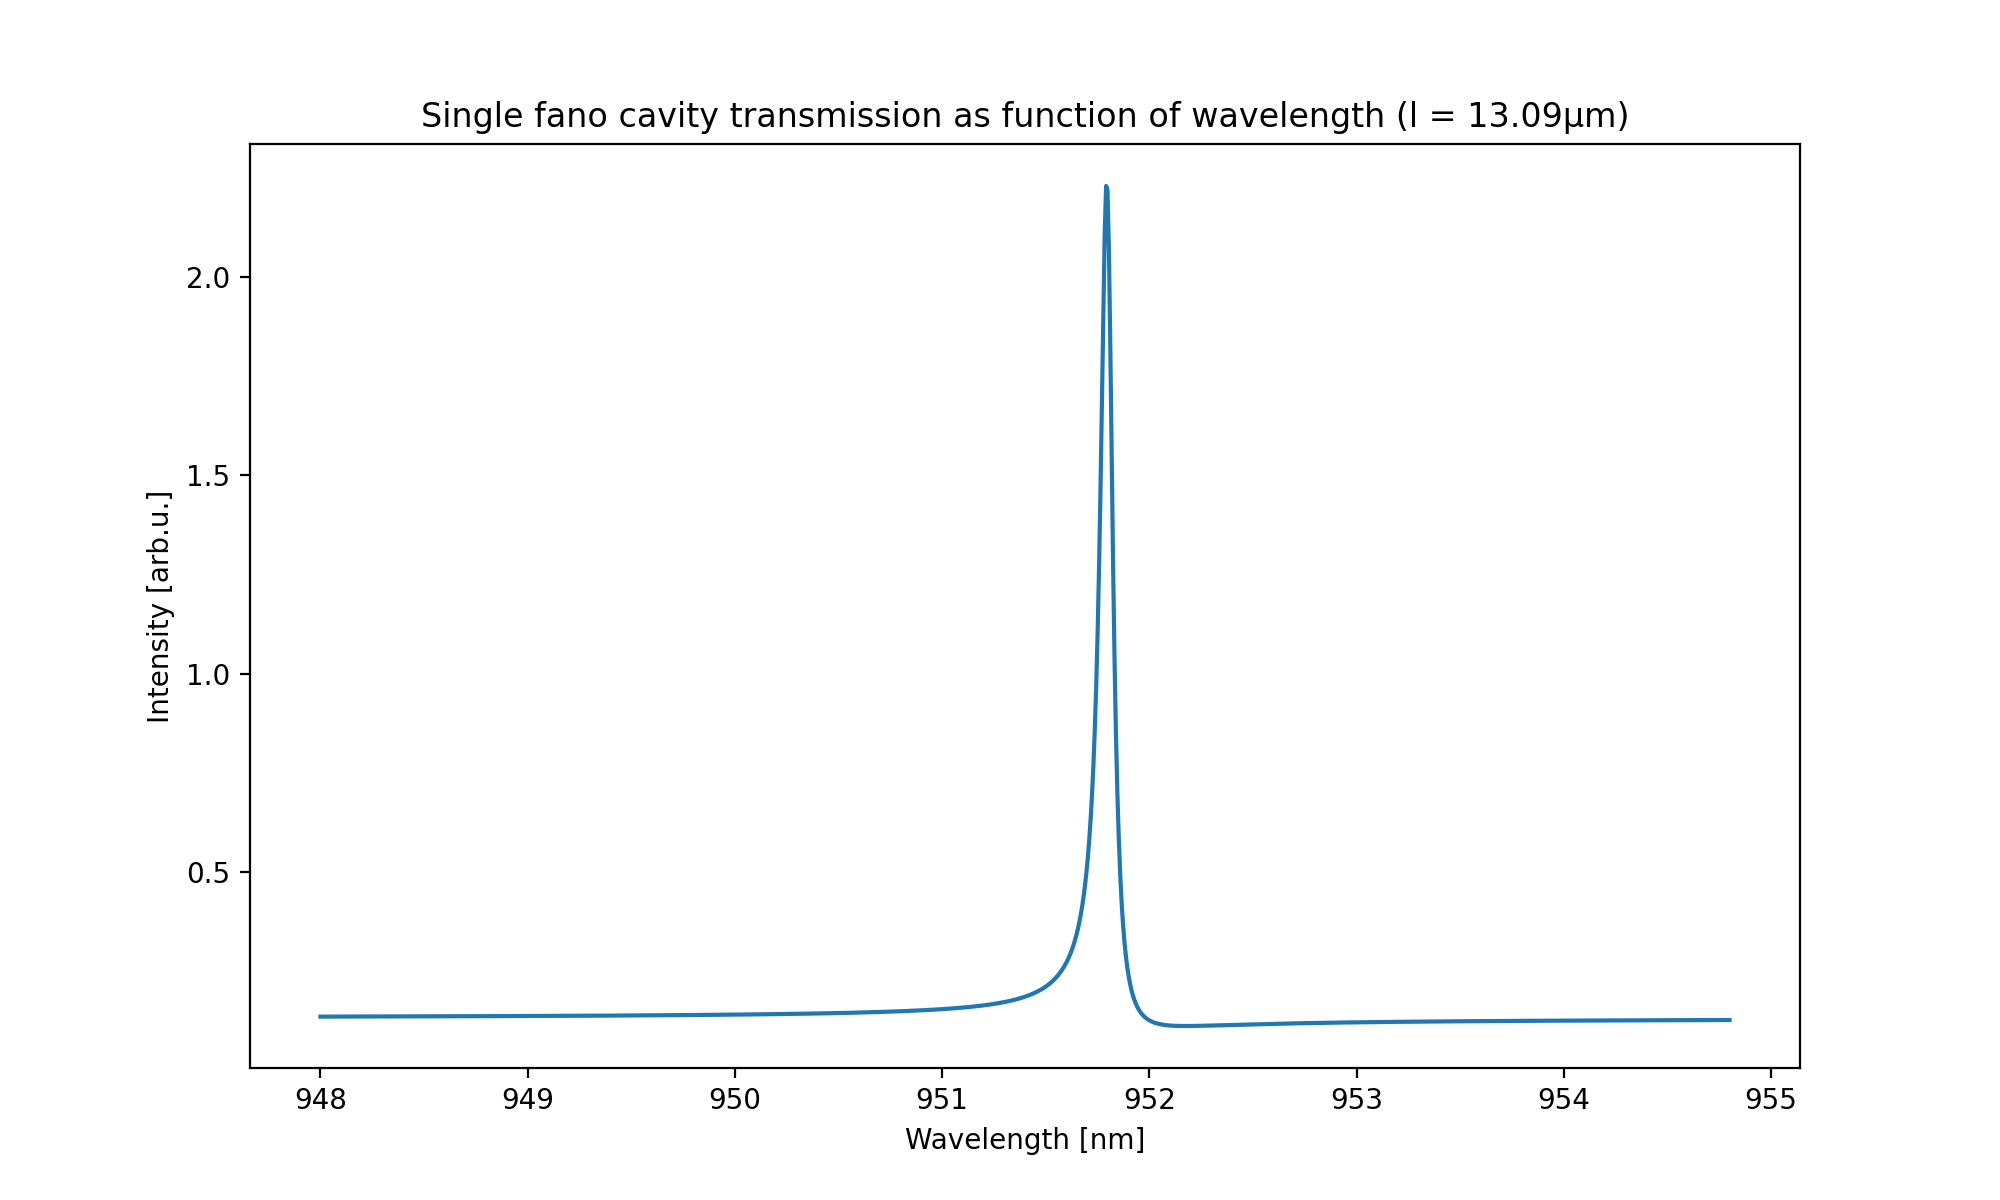
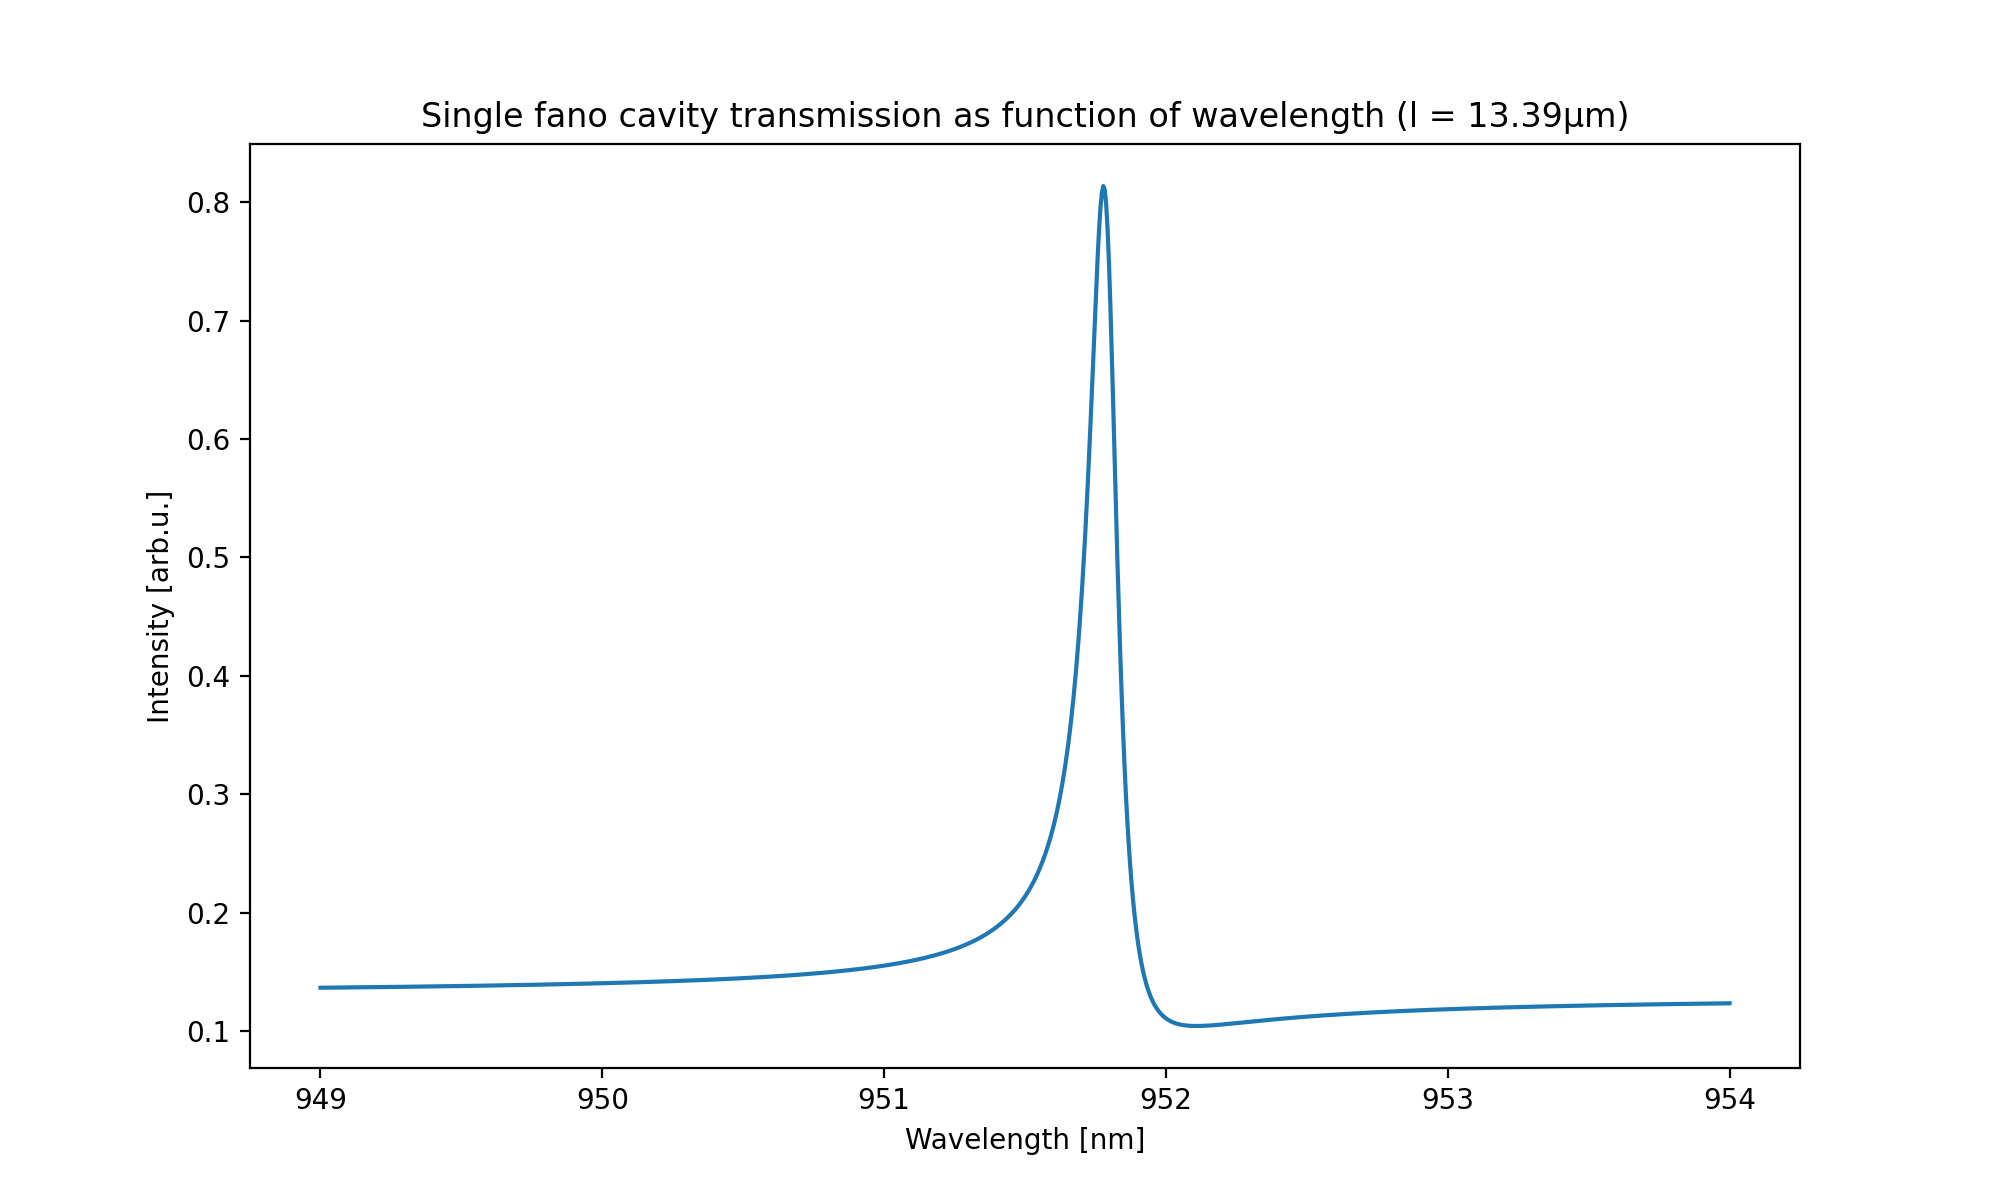
-

diff --git a/fano_theory.py b/fano_theory.py
@@ -12,7 +12,7 @@ M4 = fano("/Users/mikkelodeon/optomechanics/400um gratings/Data/M4/400_M4 trans.
 M5 = fano("/Users/mikkelodeon/optomechanics/400um gratings/Data/M5/400_M5 trans.txt")
 
 params1 = M3.lossy_fit([952,952,0.6,1,0.1])
-params2 = M5.lossy_fit([952,952,0.6,1,0.1])
+params2 = M3.lossy_fit([952,952,0.6,1,0.1])
 #Δ = 0.2
 #params2[1] = params2[1] + Δ
 #params2[0] = params2[0] + Δ
@@ -29,31 +29,33 @@ params2 = M5.lossy_fit([952,952,0.6,1,0.1])
 #grating1 = [950, 950, 0.81, 0.48, 9e-7]
 #grating2 = [950+Δ, 950+Δ, 0.81, 0.48, 9e-7]   
 
-#λs_range = np.linspace(951.5,952.2,1000)
-λs_range = np.linspace(948,955,1000)
+λs_range = np.linspace(950, 953, 1000)
+#λs_range = np.linspace(949.9, 950.1, 100)
 
-def model(λ, λ0, λ1, td, γ, α): 
+def model(λ, λ0, λ1, td, γλ, β): 
     k = 2*np.pi / λ
     k0 = 2*np.pi / λ0
     k1 = 2*np.pi / λ1
-    Γ = 2*np.pi / λ1**2 * γ
-    t = td * (k - k0 + 1j * α) / (k - k1 + 1j * Γ)
+    γ = 2*np.pi / λ1**2 * γλ
+    t = td * (k - k0 + 1j * β) / (k - k1 + 1j * γ)
     return np.abs(t)**2
 
 def theoretical_reflection_values(params: list):
-    λ0s, λ1s, tds, γλs, αs = params
+    λ0s, λ1s, tds, γλs, βs = params
     γs = 2*np.pi / λ1s**2 * γλs
-    as_ = tds * (2*np.pi / λ1s - 2*np.pi / λ0s - 1j*γs)
-    xas = np.real(as_)
-    yas = np.imag(as_)
+    a = tds * ((2*np.pi / λ1s) - (2*np.pi / λ0s) - 1j*γs)
+    xas = np.real(a)
+    yas = np.imag(a)
+
+    L = 0.06
+    c_squared = L * (γs**2 + (2*np.pi/λ0s - 2*np.pi/λ1s)**2)
 
     rds = np.sqrt(1 - tds**2)
-    xbs = -xas * tds / rds
-    As = 0.015 * (γs**2 + (2*np.pi/λ0s - 2*np.pi/λ1s)**2)
+    xbs = -(xas * tds / rds)
 
     def equations(vars):
         yb = vars
-        return xas**2 + yas**2 + xbs**2 + yb**2 + 2 * γs * rds * yb + 2 * γs * tds * yas + As
+        return xas**2 + yas**2 + xbs**2 + yb**2 + 2 * γs * rds * yb + 2 * γs * tds * yas + c_squared
     yb_initial_guess = 0.5
     ybs = fsolve(equations,yb_initial_guess)
 
@@ -63,9 +65,9 @@ def theoretical_reflection_values(params: list):
         r.append(r_val)
     r = np.array(r)
     reflectivity_values = np.abs(r)**2
-    complex_reflectivity_values = r
+    complex_reflectivity_amplitudes = r
 
-    return (reflectivity_values, complex_reflectivity_values)
+    return (reflectivity_values, complex_reflectivity_amplitudes)
 
 def theoretical_reflection_values_plot(reflection_values):
     plt.figure(figsize=(10,6))
@@ -189,7 +191,8 @@ def detuning_plot(Δs: list): ## plots dual fano cavity transmission for differe
     grating1 = [950, 950, 0.81, 0.48, 9e-7]
     for Δ in Δs:
         grating2 = [950+Δ, 950+Δ, 0.81, 0.48, 9e-7]
-        λs, Ts =  dual_fano_transmission(grating1, grating2)
+        length = double_cavity_length(grating1, grating2)
+        λs, Ts =  dual_fano_transmission(grating1, grating2, length)
         plt.plot(λs, Ts, label="Δ=%snm" %(Δ))
 
     plt.title("Dual fano cavity transmission as a function of wavelength")
@@ -211,17 +214,19 @@ def cavity_length_plot(ls: list, params1: list, params2: list):
     plt.show() 
 
 def l_vs_λ_cmaps(params1: list, params2: list): 
-    Δs = 0.1
+    params2[1] += 1
+    params2[0] += 1
+    Δs = 0.2
     rows = 3
     columns = 3
-    Δ_label = 0
+    Δ_label = 1
     fig, ax = plt.subplots(rows,columns, figsize=(18,8))
     for i in range(rows):
         for j in range(columns):
-            params2[1] = params2[1] - Δs
-            params2[0] = params2[0] - Δs
+            params2[1] -= Δs
+            params2[0] -= Δs
             Δ_label -= Δs
-            ls = np.linspace(double_cavity_length(params1, params2), double_cavity_length(params2, params1), 20)
+            ls = np.linspace(double_cavity_length(params1, params2)-1, double_cavity_length(params2, params1)+1, 20)
             Ts = []
             λs = 0
             for l in ls:
@@ -248,7 +253,7 @@ def l_vs_λ_cmaps(params1: list, params2: list):
     fig.subplots_adjust(right=0.8)
     cbar_ax = fig.add_axes([0.85, 0.15, 0.02, 0.7])
     fig.colorbar(im, cax=cbar_ax)
-    fig.text(0.5, 0.93, 'Negative detuning', ha='center', va='center', fontsize=16) 
+    fig.text(0.5, 0.93, 'Double fano transmission for different values of Δ', ha='center', va='center', fontsize=16) 
     fig.text(0.5, 0.06, 'Wavelength [nm]', ha='center', va='center', fontsize=10)
     fig.text(0.08, 0.5, 'Cavity length [μm]', ha='center', va='center', fontsize=10, rotation="vertical")
     plt.show()
@@ -257,7 +262,7 @@ def double_fano_cmap(params1: list, params2: list):
 
     plt.figure(figsize=(10,6))
 
-    ls = np.linspace(double_cavity_length(params1, params2), double_cavity_length(params2, params1),20)
+    ls = np.linspace(double_cavity_length(params1, params2)-1, double_cavity_length(params2, params1)+1,20)
     Ts = []
     λs = 0
     for l in ls:
@@ -303,13 +308,7 @@ def line_width_double(params1: list, params2: list):
 
     FWHM = np.abs(2*popt[2])
 
-    #print("length: ", length)
     print("FWHM: ", round(np.abs(FWHM)*1e3,2), "pm")
-
-    #plt.figure(figsize=(10,6))
-    #plt.plot(λs, lorentzian(λs, *popt))
-    #plt.plot(λs, Ts, 'r.')
-    #plt.show()
 
     return FWHM*1e3
 
@@ -338,11 +337,11 @@ def line_width_single(params1: list): ## change this !
 
     return FWHM
 
-def line_width_comparison(params1: list, params2: list): 
+def line_width_comparison(params1: list, params2: list, length: float): 
     λ1, T1 =  fano_cavity_transmission(params1)
-    λ2, T2 = dual_fano_transmission(params1, params2)
+    λ2, T2 = dual_fano_transmission(params1, params2, length)
 
-    initial_guess = [951.79, 1, 0.1, 1] #[951.6, 951.6, 0.7, 0.05, 1e-7]
+    initial_guess = [950, 1, 0.1, 1] #[951.6, 951.6, 0.7, 0.05, 1e-7]
 
     def lorentzian(x, x0, A, γ, t):
         fano = 1 + ((x-x0) / (γ * (1 - t * (x-x0) / γ)))**2 
@@ -355,9 +354,9 @@ def line_width_comparison(params1: list, params2: list):
     FWHM_double = 2*popt2[2]
 
     plt.figure(figsize=(10,6))
-    plt.title("Double vs single fano comparison")
-    plt.plot(λ1, T1, '.', color="cornflowerblue", alpha=0.5, label="single fano simulation (M3)")
-    plt.plot(λ2, T2, 'g.', alpha=0.5, label="double fano simulation (M3/M3)")
+    plt.title("Double vs single fano comparison (identical arb. gratings)")
+    plt.plot(λ1, T1, '.', color="cornflowerblue", alpha=0.5, label="single fano simulation")
+    plt.plot(λ2, T2, 'g.', alpha=0.5, label="double fano simulation")
     plt.plot(λ1, lorentzian(λ1, *popt1), label="single fano fit, FWHM: %spm" %(str(round(FWHM_single*1e3,2))), color="orange")
     plt.plot(λ2, lorentzian(λ2, *popt2), label="double fano fit, FWHM: %spm" %(str(round(FWHM_double*1e3,2))))
     plt.xlabel("Wavelength [nm]")
@@ -367,32 +366,43 @@ def line_width_comparison(params1: list, params2: list):
 
     return FWHM
 
-Δs = np.array([0.01, 0.04, 0.08, 0.12, 0.20, 0.30]) # detuning in nm    
 
-length = resonant_cavity_length(params1)
-double_length = double_cavity_length(params1, params2)
-ls = np.linspace(0,100,10000)
-length = double_cavity_length(params1, params2)
+#### double fano transmission as a function of detuning ####
 
-
-#plt.figure(figsize=(10,6))
+#Δs = np.array([0.01, 0.04, 0.08, 0.12, 0.20, 0.30]) # detuning in nm  
 #detuning_plot(Δs)
-#cavity_length_plot(ls, params1, params2)
+
+#### Heat maps of cavity transmission as a function of wavelength and cavity length ####
+
 #l_vs_λ_cmaps(params1,params2)
 #double_fano_cmap(params1, params2)
-#λs1, Ts1 =  fano_cavity_transmission(params1)
-#λs2, Ts2 =  dual_fano_transmission(params1, params2)
-#plt.plot(λs1, Ts1, label="Reg. Fano (cavity length: %s μm)" %(str(round(length,2))))
-#plt.plot(λs2, Ts2, "--", label="Double Fano (cavity length: %s μm)" %(str(round(double_length,2))))
-#plt.legend()
-#plt.show()
+
+
+#### Double/single fano cavity transmission plots ####
+
+#length = resonant_cavity_length(params1)
 #fano_cavity_transmission_plot(params1)
-dual_fano_transmission_plot(params1, params2, length)
-#line_width_double(params1, params2)
-#line_width_single(params1)
-#line_width_comparison(params1, params2)
-#print(double_cavity_length(params1, params2))
-#print(double_cavity_length(params2, params1))
+
+#length = double_cavity_length(params1, params2)
+#dual_fano_transmission_plot(params1, params2, length)
+
+
+#### for arbitrary line width comparison of the single and double fano models ####
+
+#grating1 = [950, 950, 0.81, 0.48, 9e-7]
+#grating2 = grating1
+#line_width_comparison(grating1, grating2, double_cavity_length(grating1, grating2))
+
+
+#### plotting the calculated reflection/transmission values ####
+
+#plt.figure(figsize=(10,6))
+#rs = theoretical_reflection_values(params1)[1]
+#ts = model(λs_range, *params1)
+#plt.plot(λs_range, rs)
+#plt.plot(λs_range, ts)
+#plt.show()
+
 
 
 

diff --git a/fano_class.py b/fano_class.py
@@ -109,9 +109,9 @@ class fano:
 ## (plots/fit are produced according to the chosen code/type).
 
 #fitting_params = [951,951,0.6,1,0.1]
-#T = fano("/Users/mikkelodeon/optomechanics/400um gratings/Data/M5/400_M5 trans.txt")
-#R = fano("/Users/mikkelodeon/optomechanics/400um gratings/Data/M5/400_M5 ref.txt")
-#tparams = T.lossy_fit(fitting_params)
+#T = fano("/Users/mikkelodeon/optomechanics/400um gratings/Data/M3/400_M3 trans.txt")
+#R = fano("/Users/mikkelodeon/optomechanics/400um gratings/Data/M3/400_M3 ref.txt")
+#params = T.lossy_fit(fitting_params)
 #rparams = R.lossy_fit(fitting_params)
 
 #plt.figure(figsize=(10,7))

diff --git a/cavity_linewidth.py b/cavity_linewidth.py
@@ -27,7 +27,7 @@ def lw_fano(l: int, λres: float, L: float, γλ: float, rd: float, Tg: float, T
     return δγ
 
 #lengths = np.array([823,724,647,604,566,453,394,201,162,92,81,22,10])*1e-6 # lengths in m
-lengths = np.array([26.077])*1e-6
+lengths = np.array([26.78])*1e-6
 for length in lengths:
     linewidth = 2*lw_fano(length,λres,L,γλ,rd,Tg,Tm)
     print("length of fano cavity: ", round(length*1e6,1), "μm", " -> ", "theoretical linewidth: ", round(linewidth*1e12,1), "pm")
